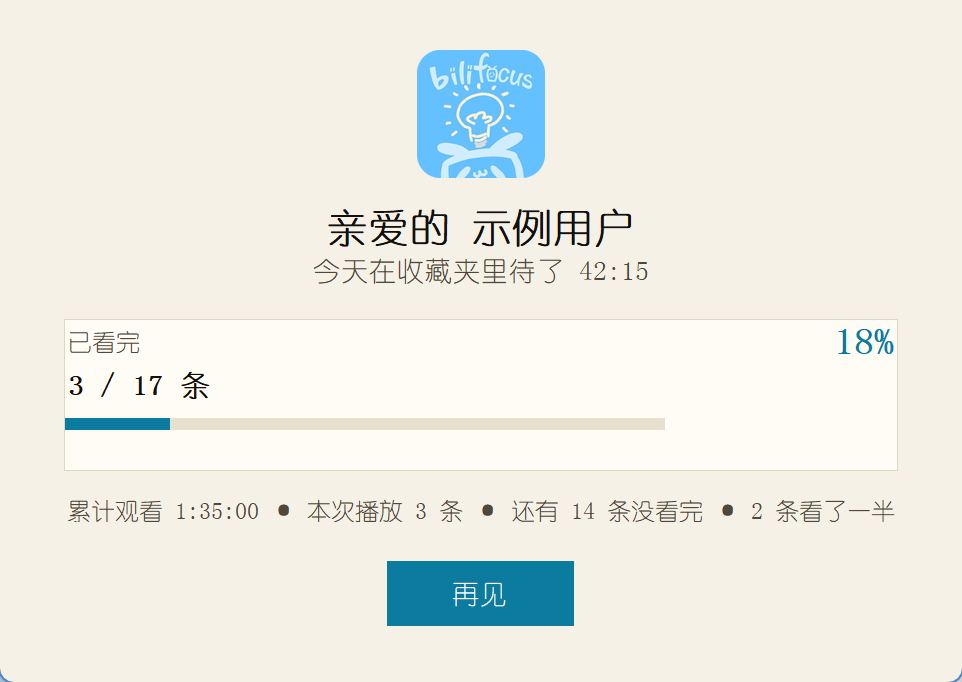
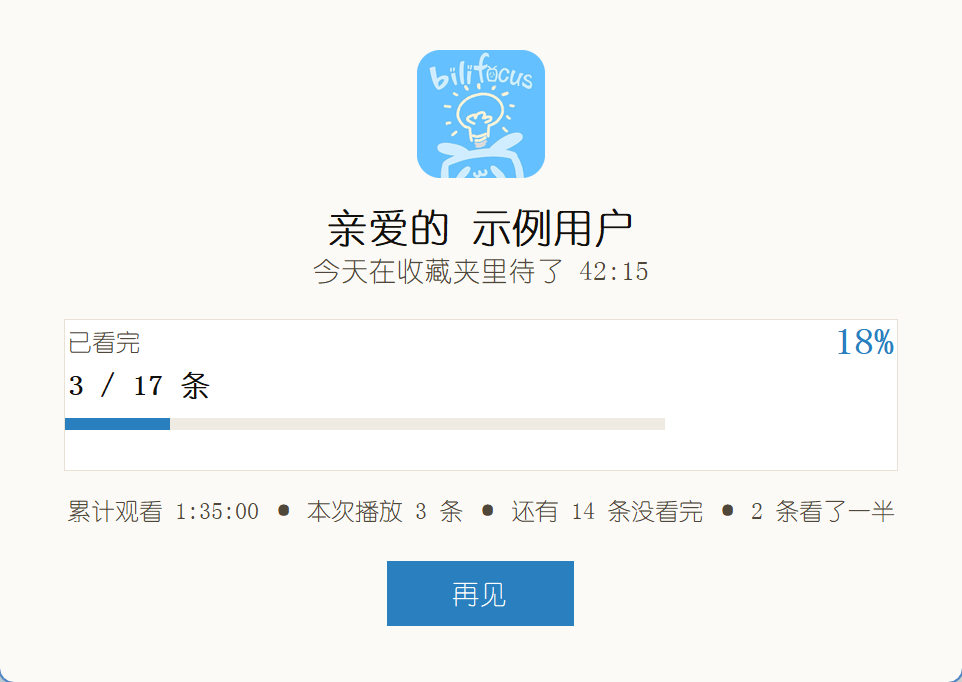
2.4.0:配色更新(更白的纸白 + 天蓝)
- 米白底 #F6F1E7 → #FCFAF6(更接近纸白);卡片改纯白 #FFFFFF;输入框/次要按钮、边框、悬停色同步提亮
- 强调色 #0B7BA0(偏青)→ #2A80BE(更天蓝),深色态 #1E6A9F;日程按钮残留的旧蓝色一并统一
- 官网配色同步:底色更白、按钮蓝与 app 一致
- 全部界面截图重新生成(README / 官网展示同步更新)

Changed region(s): [[0.4054, 0.8006, 0.6237, 0.9238], [0.0624, 0.6158, 0.1871, 0.6466], [0.8732, 0.4927, 0.9356, 0.5235]]

diff --git a/docs/index.html b/docs/index.html
@@ -14,8 +14,8 @@
 <script>document.documentElement.classList.add('js');</script>
 <style>
   :root {
-    --cream: #FBF7EE;
-    --cream-deep: #F5EFE2;
+    --cream: #FCFAF6;
+    --cream-deep: #F4F0E8;
     --card: #FFFFFF;
     --ink: #2E3A40;
     --ink-soft: #5C6B73;
@@ -24,7 +24,7 @@
     --sky-deep: #2A80BE;
     --sky-soft: #E8F5FF;
     --sky-line: #C9E8FC;
-    --line: #E9E1D2;
+    --line: #E8E1D4;
     --shadow: 0 18px 45px rgba(42, 128, 190, .13);
     --shadow-sm: 0 8px 24px rgba(42, 128, 190, .11);
     /* 幼圆(Windows 自带)优先;Mac / Linux 依次退回手写体与无衬线 */
@@ -527,7 +527,7 @@
         <article class="dl-card primary reveal">
           <span class="badge">推荐</span>
           <h3>安装包(Setup)</h3>
-          <p class="meta"><span id="setup-version">v2.3.2</span> · <span id="setup-size">约 24 MB</span> · Windows 10 / 11</p>
+          <p class="meta"><span id="setup-version">v2.4.0</span> · <span id="setup-size">约 24 MB</span> · Windows 10 / 11</p>
           <ul>
             <li>双击 → 点「安装」,自动创建桌面和开始菜单快捷方式</li>
             <li>自带卸载入口(Windows 设置 → 应用)</li>
@@ -579,6 +579,13 @@
         <h2>最近改了什么</h2>
       </div>
       <div class="changelog">
+        <article class="release reveal">
+          <time>2.4.0</time>
+          <div>
+            <h4>配色更新:更白的纸白 + 天蓝</h4>
+            <p>界面米白底改成更接近纸白的颜色,卡片改成纯白;强调色从偏青的蓝换成更"天空"的天蓝。官网截图同步更新。</p>
+          </div>
+        </article>
         <article class="release reveal">
           <time>2.3.2</time>
           <div>

diff --git a/bilifocus/theme.py b/bilifocus/theme.py
@@ -14,27 +14,27 @@ from __future__ import annotations
 import sys
 
 # ── 底色(米白系)────────────────────────────────────────────────
-BG = "#F6F1E7"            # 页面底色:米白
-BG_ALT = "#EDE6D8"        # 输入框 / 次要按钮
-CARD_BG = "#FFFCF5"       # 卡片:比页面更亮
-CARD_HOVER = "#F1EADA"
-BORDER = "#DFD6C4"
-PLACEHOLDER_BG = "#E8E0CF"
+BG = "#FCFAF6"            # 页面底色:米白(更接近纸白)
+BG_ALT = "#F4F0E8"        # 输入框 / 次要按钮
+CARD_BG = "#FFFFFF"       # 卡片:纯白,让卡片从米白底上浮起来
+CARD_HOVER = "#F7F3EB"
+BORDER = "#E8E1D4"
+PLACEHOLDER_BG = "#F0EBE2"
 
 # ── 文字(偏黑,不是纯黑,避免刺眼)──────────────────────────────
 FG = "#12100C"            # 主文字:近黑
 FG_DIM = "#4F4739"        # 次要文字
-WATCHED_FG = "#9A8F7C"    # 已看过的标题
+WATCHED_FG = "#A49B8B"    # 已看过的标题
 
 # ── 强调与语义色 ────────────────────────────────────────────────
-ACCENT = "#0B7BA0"        # 浅底上用深青蓝,对比度更好
-ACCENT_DARK = "#08607D"
+ACCENT = "#2A80BE"        # 天蓝:比原来的青蓝更亮、更"天空"
+ACCENT_DARK = "#1E6A9F"
 WARN = "#8A5B0A"
 ERROR = "#A32C22"
 
 # ── 时长角标 ────────────────────────────────────────────────────
 BADGE_BG = "#12100C"
-BADGE_FG = "#FFFCF5"
+BADGE_FG = "#FFFFFF"
 
 # ── 卡片尺寸(基准值;真实值 = 基准 × DPI 缩放)──────────────────
 _BASE_CARD_WIDTH = 244

diff --git a/bilifocus/ui_schedule.py b/bilifocus/ui_schedule.py
@@ -24,6 +24,7 @@ from .models import format_seconds
 from .service import FavoritesService
 from .theme import (
     ACCENT,
+    ACCENT_DARK,
     BG,
     BG_ALT,
     BORDER,
@@ -289,7 +290,7 @@ class ScheduleDialog(tk.Toplevel):
             bg=ACCENT,
             fg="#ffffff",
             relief="flat",
-            activebackground="#0A6A8B",
+            activebackground=ACCENT_DARK,
             activeforeground="#ffffff",
             font=font(9, "bold"),
             padx=px(16),

diff --git a/bilifocus/__init__.py b/bilifocus/__init__.py
@@ -44,7 +44,7 @@ from .service import FavoritesService
 from .store import CacheStore, StateStore, default_home
 from .wbi import encode_query, mixin_key, sign
 
-__version__ = "2.3.2"
+__version__ = "2.4.0"
 
 __all__ = [
     "__version__",
